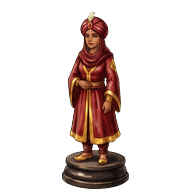
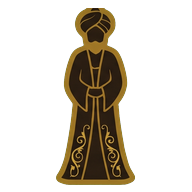
Preview: flat, ornate pieces with a clear outline that belong to the board; the pieces change with place and time
- Asia: Liam's Indian army; old Europe: ornate classic shapes; from London 1849: the Jaques Staunton design
- Pieces fill their squares like a chess diagram, with a seam that keeps them readable on light and dark squares
- The piece picker page is gone

Changed region(s): [[0.2812, 0.0312, 0.7188, 1.0]]

diff --git a/src/screens/King.tsx b/src/screens/King.tsx
@@ -224,16 +224,13 @@ function Medallion({ img }: { img: string }) {
   )
 }
 
-// ---------- the board of the game: painted pieces in a carved frame ----------
+// ---------- the board of the game: it changes with the place and the time ----------
 
-const SKIN_KEY = 'chess-trainer-board-skin'
-function boardSkin(): BoardSkin {
-  try {
-    return localStorage.getItem(SKIN_KEY) === 'palace' ? 'palace' : 'army'
-  } catch {
-    return 'army'
-  }
-}
+// The pieces tell the story of chess: Liam's Indian army in Asia, ornate classic shapes in old Europe,
+// and from London 1849 on the Staunton design that every tournament uses today
+const ASIA = ['kannauj', 'persia', 'samarkand', 'baghdad']
+const OLD_EUROPE = ['north', 'valencia', 'rome', 'palace', 'vienna', 'paris']
+const piecesAt = (id: string): BoardSkin => (ASIA.includes(id) ? 'army' : OLD_EUROPE.includes(id) ? 'palace' : 'london')
 
 // Every city can have its own board: painted squares, a frieze above and below, a rim around it
 interface BoardLook {
@@ -241,89 +238,21 @@ interface BoardLook {
   top: string
   bottom: string
   rim: string
-  // pieces that belong to the place (London: the Staunton design of 1849)
-  pieces?: BoardSkin
+  pieces: BoardSkin
 }
-const POLO: BoardLook = { board: 'board-polo.jpg', top: 'polo-top.jpg', bottom: 'polo-bottom.jpg', rim: 'walnut.jpg' }
-const LOOKS: Record<string, BoardLook> = {
-  london: { board: 'board-london.jpg', top: 'london-top.jpg', bottom: 'london-bottom.jpg', rim: 'leather.jpg', pieces: 'palace' },
-}
-const LookContext = createContext<BoardLook>(POLO)
+const POLO = { board: 'board-polo.jpg', top: 'polo-top.jpg', bottom: 'polo-bottom.jpg', rim: 'walnut.jpg' }
+const LONDON = { board: 'board-london.jpg', top: 'london-top.jpg', bottom: 'london-bottom.jpg', rim: 'leather.jpg' }
+const lookAt = (id: string): BoardLook => ({ ...(id === 'london' ? LONDON : POLO), pieces: piecesAt(id) })
+const LookContext = createContext<BoardLook>(lookAt('kannauj'))
 
 function KBoard(props: ComponentProps<typeof Board>) {
   const look = useContext(LookContext)
-  const skin = props.skin ?? look.pieces ?? boardSkin()
   return (
     <div className="king-frame" style={{ backgroundImage: `url(${IMG}${look.rim})` }}>
       <img className="king-frieze" src={IMG + look.top} alt="" />
-      <Board {...props} skin={skin} boardImage={look.board} />
+      <Board {...props} skin={props.skin ?? look.pieces} boardImage={look.board} />
       <img className="king-frieze" src={IMG + look.bottom} alt="" />
     </div>
-  )
-}
-
-const BOARD_LOOKS: { skin: BoardSkin; name: string; text: string }[] = [
-  { skin: 'army', name: "Liam's army", text: 'The old Indian army: elephants with towers, camels, horses, the counselor and the raja.' },
-  { skin: 'palace', name: 'The palace set', text: 'The classic shapes you know from every game, carved in ivory and ebony with gold.' },
-]
-
-// Prototype: both boards side by side, playable, one tap to choose
-export function BoardLab() {
-  const [skin, setSkin] = useState(boardSkin)
-  return (
-    <div className="screen king-screen">
-      <div className="screen-head">
-        <button type="button" className="back" onClick={() => go('')} aria-label="Back to the world map">←</button>
-        <div>
-          <div className="eyebrow">Prototype</div>
-          <h2>Choose your pieces</h2>
-        </div>
-      </div>
-      {BOARD_LOOKS.map((b) => (
-        <section key={b.skin} className={`king-look ${skin === b.skin ? 'on' : ''}`}>
-          <b className="king-look-name">{b.name}</b>
-          <p>{b.text}</p>
-          <FreeBoard skin={b.skin} />
-          <button
-            type="button"
-            className={skin === b.skin ? 'primary wide' : 'wide'}
-            onClick={() => {
-              try {
-                localStorage.setItem(SKIN_KEY, b.skin)
-              } catch {
-                // private mode: the choice is only kept for this visit
-              }
-              setSkin(b.skin)
-              fx.success()
-            }}
-          >
-            {skin === b.skin ? '✓ Your pieces' : 'Use these pieces'}
-          </button>
-        </section>
-      ))}
-    </div>
-  )
-}
-
-// Any legal move, both sides – to feel the pieces glide
-function FreeBoard({ skin }: { skin: BoardSkin }) {
-  const [fen, setFen] = useState(new Chess().fen())
-  const [last, setLast] = useState<{ from: string; to: string } | null>(null)
-  return (
-    <KBoard
-      skin={skin}
-      fen={fen}
-      orientation="white"
-      squareStyles={last ? { [last.from]: LAST_MOVE, [last.to]: LAST_MOVE } : {}}
-      onMove={(from, to) => {
-        const c = new Chess(fen)
-        const m = c.move({ from, to, promotion: 'q' })
-        fx.move(m.san)
-        setFen(c.fen())
-        setLast({ from, to })
-        return true
-      }}
-    />
   )
 }
 
@@ -380,7 +309,7 @@ export function KingStation({ id, sub, rep }: { id?: string; sub?: string; rep: 
     )
   }
   return (
-    <LookContext.Provider value={LOOKS[s.id] ?? POLO}>
+    <LookContext.Provider value={lookAt(s.id)}>
       <StationScreen s={s} sub={sub} rep={rep} />
     </LookContext.Provider>
   )

diff --git a/src/king.css b/src/king.css
@@ -273,13 +273,10 @@
 .board-wrap.skin { --skin-light-ink: #f3e7c6; --skin-dark-ink: #6b4428; }
 .board-wrap.skin [data-square] { font-weight: 900; }
 .skin-piece { position: relative; display: block; width: 100%; aspect-ratio: 1; pointer-events: none; user-select: none; }
-.skin-piece img { position: absolute; left: 0; bottom: 9%; width: 100%; height: 100%; object-fit: contain; object-position: 50% 100%; transform: scale(1.1); transform-origin: 50% 100%; filter: drop-shadow(0 1px 1px rgba(30, 15, 5, .35)); }
-.skin-shadow { position: absolute; left: 19%; right: 19%; bottom: 5%; height: 15%; border-radius: 50%; background: radial-gradient(ellipse at 50% 45%, rgba(35, 18, 5, .5), rgba(35, 18, 5, .2) 55%, transparent 72%); }
+.skin-piece img { position: absolute; inset: 0; width: 100%; height: 100%; object-fit: contain; }
+/* a fine seam keeps every piece readable on light and dark squares: dark for White, glowing gold for Black */
+.skin-piece.w img { filter: drop-shadow(0 0 .8px rgba(40, 22, 8, .9)) drop-shadow(0 1px 1px rgba(30, 15, 5, .35)); }
+.skin-piece.b img { filter: drop-shadow(0 0 1px rgba(246, 222, 150, .95)) drop-shadow(0 0 1px rgba(246, 222, 150, .7)) drop-shadow(0 1px 1px rgba(30, 15, 5, .35)); }
 
-/* prototype page */
-.king-look { background: var(--card); border: 2px solid var(--edge); border-radius: 18px; padding: 12px; display: grid; gap: 10px; }
-.king-look.on { border-color: var(--gilt); box-shadow: 0 0 0 3px rgba(201, 162, 39, .3); }
-.king-look-name { font-family: 'Cinzel', Georgia, serif; font-size: 1.2rem; }
-.king-look p { margin: 0; color: var(--ink-soft); font-weight: 700; }
 .king-legend img { width: 44px; height: 44px; object-fit: contain; filter: drop-shadow(0 2px 2px rgba(30, 15, 5, .35)); }
 .king-legend img { display: block; margin: 0 auto 2px; }

diff --git a/src/components/Board.tsx b/src/components/Board.tsx
@@ -15,22 +15,21 @@ interface Props {
   boardImage?: string
 }
 
-export type BoardSkin = 'army' | 'palace'
+export type BoardSkin = 'army' | 'palace' | 'london'
 const PIECES = ['wP', 'wN', 'wB', 'wR', 'wQ', 'wK', 'bP', 'bN', 'bB', 'bR', 'bQ', 'bK']
 const skinPieces = (skin: BoardSkin) =>
   Object.fromEntries(
     PIECES.map((p) => [
       p,
-      // The piece stands on its square: base low in the square, a soft painted shadow on the ground
+      // Flat pieces with a clear outline, centred in the square like a chess diagram – they belong to the board
       () => (
-        <span className="skin-piece">
-          <span className="skin-shadow" />
+        <span className={`skin-piece ${p[0]}`}>
           <img src={`${import.meta.env.BASE_URL}king/pieces/${skin}-${p}.png`} alt="" draggable={false} />
         </span>
       ),
     ]),
   )
-const SKIN_PIECES = { army: skinPieces('army'), palace: skinPieces('palace') }
+const SKIN_PIECES = { army: skinPieces('army'), palace: skinPieces('palace'), london: skinPieces('london') }
 
 const SELECTED: CSSProperties = { backgroundColor: 'rgba(255, 214, 102, 0.6)' }
 // The king in check glows red, so a check is never missed

diff --git a/src/App.tsx b/src/App.tsx
@@ -19,7 +19,7 @@ import { Attacks } from './screens/Attacks'
 import { Drill } from './screens/Drill'
 import { Home } from './screens/Home'
 import { backFromLine, rememberLine, rememberOrigin } from './lib/returnTo'
-import { BoardLab, KingHome, KingStation, WarTent } from './screens/King'
+import { KingHome, KingStation, WarTent } from './screens/King'
 import { OpeningMap } from './screens/OpeningMap'
 import { Import } from './screens/Import'
 import { Learn } from './screens/Learn'
@@ -117,7 +117,6 @@ function App() {
   else if (page === 'path') body = <Home rep={rep} progress={progress} puzzles={puzzles} analyzer={analyzer} player={player} trophies={trophies} />
   else if (page === 'king') body = <KingStation id={id} sub={arg} rep={rep} />
   else if (page === 'tent') body = <WarTent puzzles={puzzles} />
-  else if (page === 'boards') body = <BoardLab />
   else body = redirect ? null : <KingHome />
 
   return (
